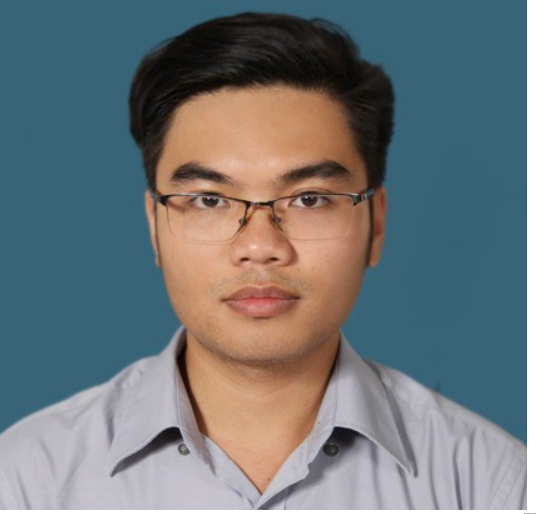
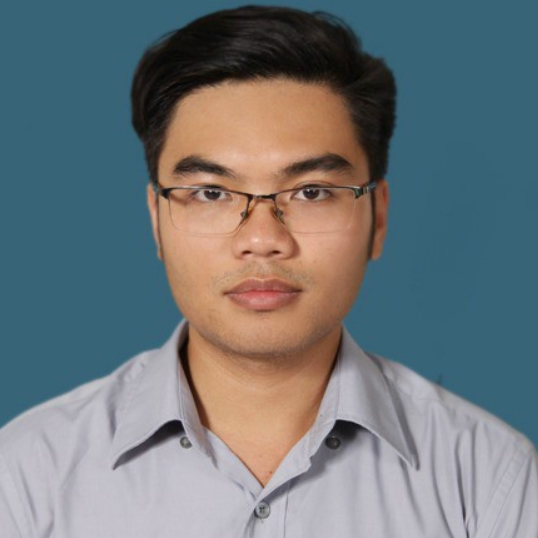
second

diff --git a/get-link.py b/get-link.py
@@ -1,0 +1,23 @@
+# your link goes here
+# link = "https://github.com/knightlab-analyses/qurro-mackerel-analysis/blob/master/AnalysisOutput/qurro-plot.qzv"
+link = "https://github.com/ngocvu-devops/resume-vuvanbaongoc/blob/main/picture-square.png"
+
+# note: this will break if a repo/organization or subfolder is named "blob" -- would be ideal to use a fancy regex
+# to be more precise here
+print(link.replace("github.com", "raw.githubusercontent.com").replace("/blob/", "/"))
+
+# example output link:
+# https://raw.githubusercontent.com/knightlab-analyses/qurro-mackerel-analysis/master/AnalysisOutput/qurro-plot.qzv
+
+
+
+https://raw.githubusercontent.com/nouchka/japromis.katagena.com/master/picture.jpg
+
+final
+https://raw.githubusercontent.com/ngocvu-devops/resume-vuvanbaongoc/main/picture-square.png
+
+
+
+
+
+
